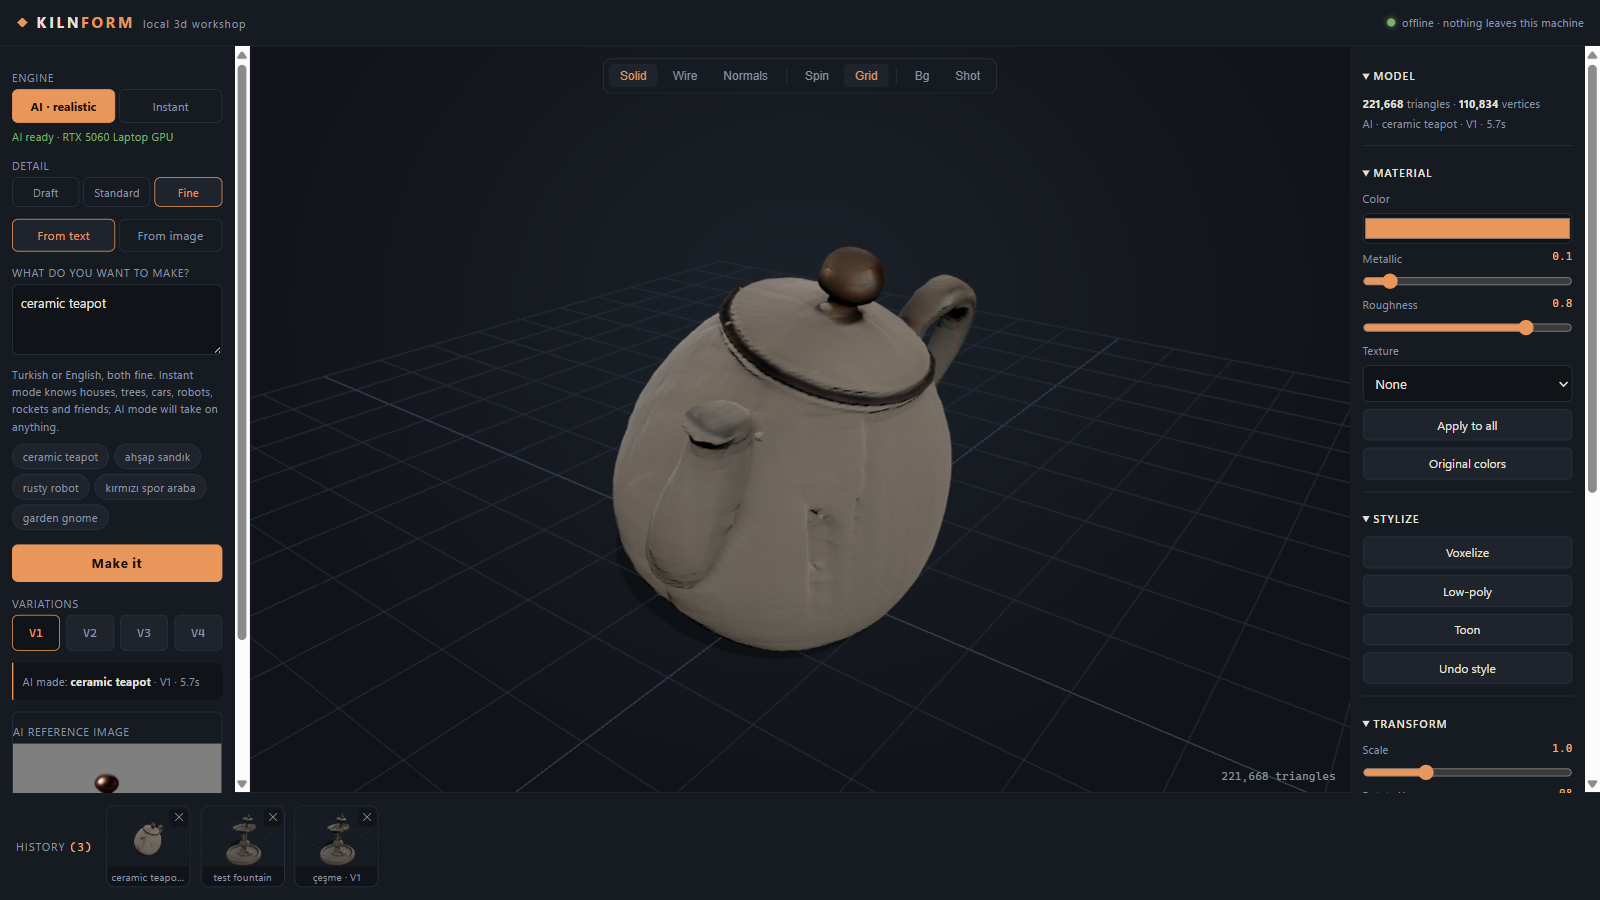
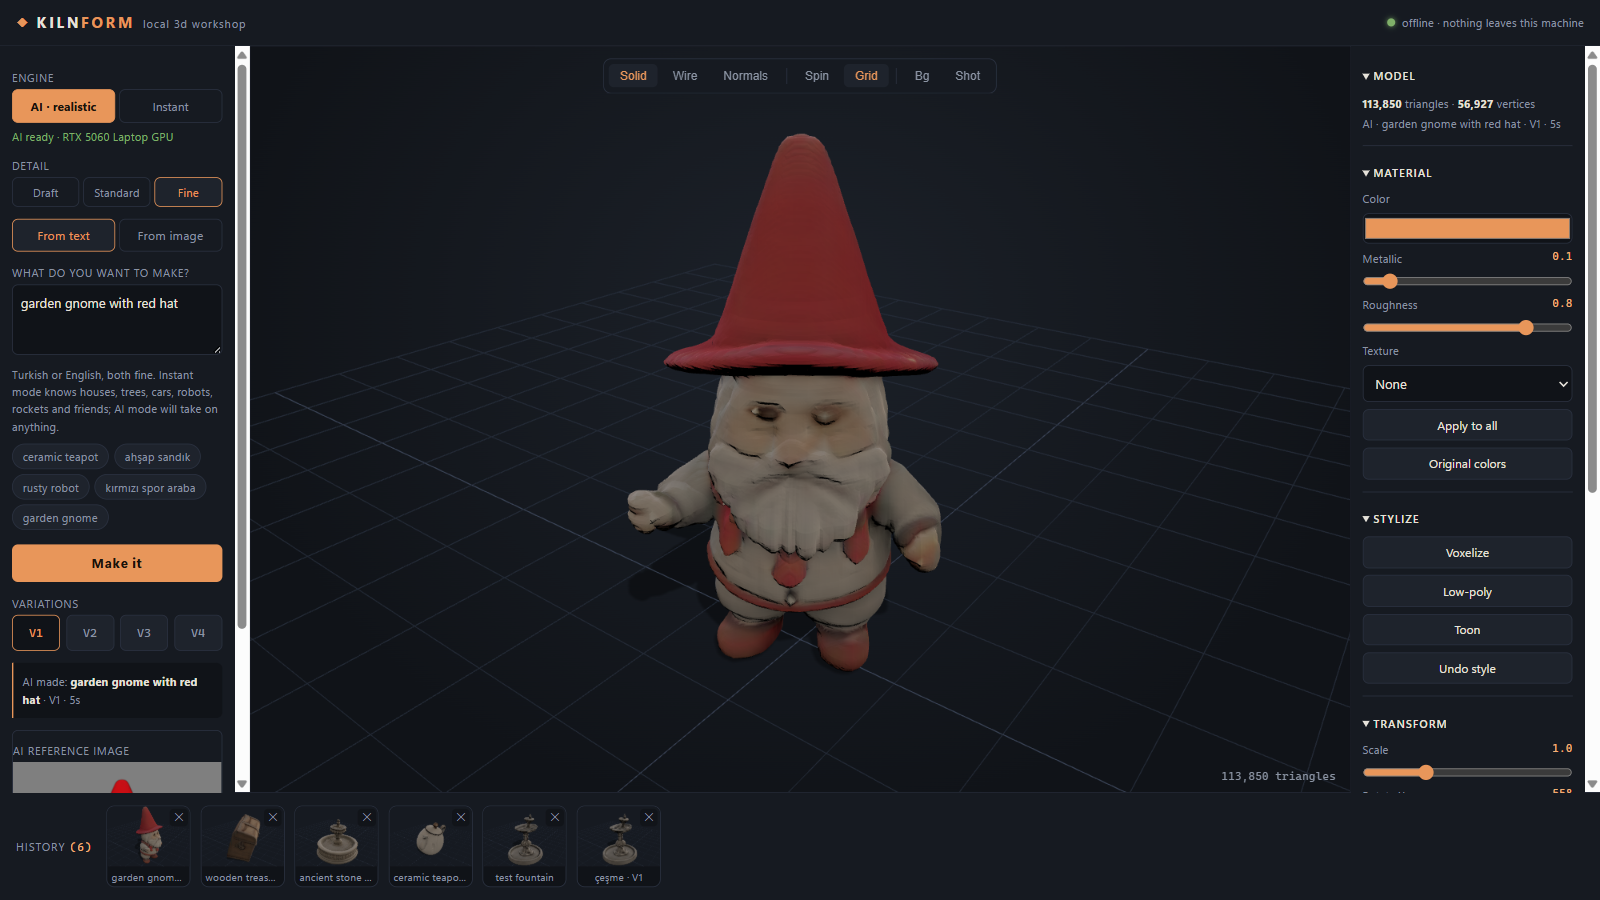
README: better showcase shot — garden gnome (113k tris, 5s)

diff --git a/README.md b/README.md
@@ -4,8 +4,8 @@ A local 3D workshop. Type a prompt or hand over an image; a 3D model gets made
 **on your own machine** — viewed, styled, and exported without a single byte
 leaving localhost.
 
-![Kilnform: "ceramic teapot" sculpted locally into 221k triangles in 5.7 seconds](docs/screenshot.png)
-<p align="center"><i>"ceramic teapot" → 221,668 triangles, 5.7 seconds, RTX 5060 Laptop — entirely offline.</i></p>
+![Kilnform: "garden gnome with red hat" sculpted locally in 5 seconds](docs/screenshot.png)
+<p align="center"><i>"garden gnome with red hat" → 113,850 triangles in 5 seconds on an RTX 5060 Laptop — entirely offline. The shelf below holds earlier makes: a teapot, a treasure chest, two fountains.</i></p>
 
 Two engines share one bench:
 